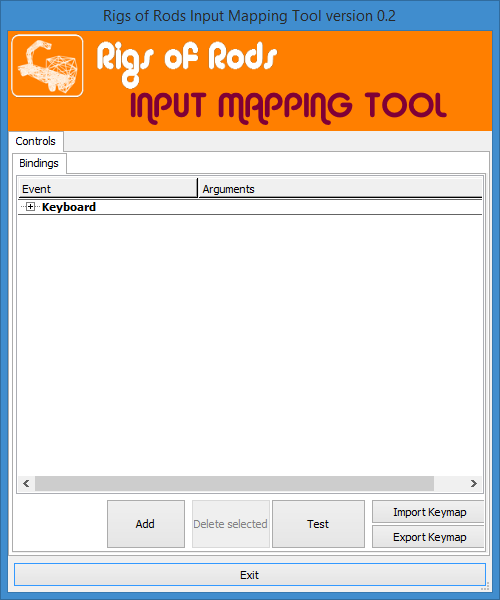
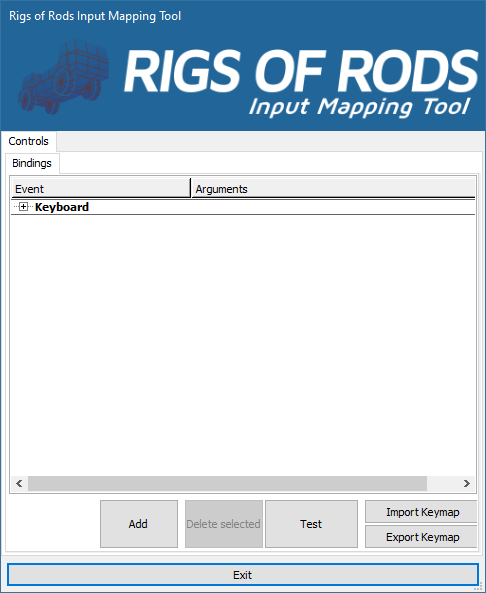
[Controls] Big update
- Updated input mapping tool tutorial for new version
- Added controllers section, moved PS controller tutorial there.

diff --git a/source/gameplay/controls-config.md b/source/gameplay/controls-config.md
@@ -757,8 +757,58 @@ TRUCK_TOGGLE_CONTACT
 TRUCK_TOGGLE_FORWARDCOMMANDS
 TRUCK_TOGGLE_IMPORTCOMMANDS 
 TRUCK_TOGGLE_VIDEOCAMERA    
-TRUCK_TRACTION_CONTROL      
+TRUCK_TRACTION_CONTROL
 ```
+
+## Controllers 
+
+### Xbox 
+
+Rigs of Rods supports Xbox 360 / One / Series controllers out of the box, just plug in your controller and play! 
+
+You can find a list of controls [here](https://forum.rigsofrods.org/resources/xbox-controller-input-map.146/).
+
+If your Xbox controller does not work with RoR, 
+please create a thread on the [support forum](https://forum.rigsofrods.org/forums/game-support.8/) 
+or send a message in the #support channel on the official RoR [Discord](https://discord.gg/rigsofrods) server.
+
+### PlayStation controller support using Steam
+
+Currently, Rigs of Rods does not support PlayStation controllers. However, thanks to Steam's excellent input interface,
+it is possible to "disguise" your PlayStation controller as an Xbox controller, allowing it to work with the game. 
+
+This has been tested with a DualShock 4 controller,  these instructions should also work with the DualSense (PS5) controller as well. 
+
+To begin, install [Steam](https://store.steampowered.com/about/) if you don't already have it and sign in. 
+
+You will first have to enable PlayStation controller support. Click `Steam` -> `Settings`
+![steam-settings](/images/steam-settings.png)
+
+On the Controller tab, select `General controller settings`
+
+![steam-controller-settings](/images/steam-controller-settings.png)
+
+Enable `PlayStation Configuration Support` then click `Back` to return to the settings menu
+
+![steam-ps-support.png](/images/steam-ps-support.png)
+
+Next you'll have to add RoR as a non-Steam game. To do this click `Games` -> `Add a Non-Steam Game to My Library...`
+
+![steam-non-steam-game](/images/steam-non-steam-game.png)
+
+Click ![steam-browse](/images/steam-browse.png), locate where RoR is installed (usually `C:\Program Files\Rigs of Rods`) then double-click `RoR.exe`
+
+![steam-add-non-steam-game](/images/steam-add-non-steam-game.png)
+
+Finally, click `Add selected programs`. RoR will now be in your game library. 
+
+If you've done everything correctly, you should now be able to launch the game from Steam and your controller should be working! 
+
+Controls are listed [here](https://forum.rigsofrods.org/resources/xbox-controller-input-map.146/). 
+
+If you wish to edit the controls, you can use Steam's UI by clicking "Controller layout" under the green play button (only shown when controller is connected). 
+
+For advanced editing you'll need to edit the `Controller__XBOX_360_For_Windows_.map` file inside the `Rigs of Rods\config` folder. See [Config file 'input.map'](#config-file-inputmap) for more info. 
 
 ## Mouse
 
@@ -839,7 +889,8 @@ Then select the correct input type:
 
 Click `Add` once ready, the tool will then ask you to move the axis/press a button. 
 
-The popup will automatically close once the requested action is completed.
+The popup will automatically close once the requested action is completed. 
+If not, press Enter.
 
 ![7](/images/InputMappingTool-3.png)
 
@@ -851,9 +902,26 @@ Once you're done, it's time to export the keymap.
 
 ### Exporting the keymap
 
-First, you'll need to get the correct file name of your file.
+!!! note
+	The latest version of the Input Mapping Tool should automatically set the correct file name for your input device. If it doesn't, please see the troubleshooting section below.
 
-To do this, double-click `getdeviceinfo.exe`. This will generate a `inputinfo.txt` file. Open the text file.
+Click `Export Keymap` then select your device from the list.
+
+![9](/images/InputMappingTool-5.png)
+
+Browse to `Documents\My Games\Rigs of Rods\config`, set the name you copied earlier in the `File name` box, then click `Open` to save the file.
+
+![10](/images/InputMappingTool-6.png)
+
+And finally, run Rigs of Rods and test your device! If you wish to make further edits in the future, you can import your input map by clicking `Import Keymap`.
+
+If you want to share your created input map, upload it to the Input Maps section of the [Repository](https://forum.rigsofrods.org/resources/categories/input-maps.11/). Thanks!
+
+### Troubleshooting
+
+If your input mapping isn't working in-game, you'll first want to check if the name of your input map file is correct.
+
+To do this, you'll find a file named `getdeviceinfo.exe` in the same folder as the tool. Double-click it, a command prompt window will appear for a split second, this is normal.  You will now see a `inputinfo.txt` file in the directory. Open the text file.
 
 Example output:
 
@@ -869,70 +937,31 @@ System info:
 Devices:
 	- OISKeyboard, Vendor: Win32InputManager
 	- OISMouse, Vendor: Win32InputManager
-	- OISJoyStick, Vendor: Logitech Extreme 3D
+	- OISJoyStick, Vendor: Controller (Xbox One For Windows)
 
 
 Joystick 0:
-	Vendor: Logitech Extreme 3D
-	VendorMapFilename: Logitech_Extreme_3D.map
+	Vendor: Controller (Xbox One For Windows)
+	VendorMapFilename: Controller__Xbox_One_For_Windows_.map
 	ID: 0
 	Type: [3] OISJoyStick
-	Axes: 3
-	Sliders: 1
+	Axes: 5
+	Sliders: 0
 	POV/HATs: 1
-	Buttons: 12
+	Buttons: 16
 	Vector3: 0
 	Vector3Sensitivity: 2.28
 ```
 
-`VendorMapFilename` will be the name of your exported file. In this example, the name will be `Logitech_Extreme_3D.map`.
+`VendorMapFilename` will be the name of your exported file. In this example, the name will be `Controller__Xbox_One_For_Windows_.map`.
 
-Click `Export Keymap` then select your device from the list.
+This is what you'll want to name your file. You can choose to just save your input map through the tool again or rename the file from File Explorer.
 
-![9](/images/InputMappingTool-5.png)
+If you rename the file, it is highly recommended you enable file extensions (View -> File name extensions):
 
-Browse to `Documents\My Games\Rigs of Rods\config`, set the name you copied earlier in the `File name` box, then click `Open` to save the file.
+![explorer-file-ext](/images/explorer-file-ext.png)
 
-![10](/images/InputMappingTool-6.png)
+This is to help avoid you naming the file  `.map.map` by mistake. 
 
-And finally, run Rigs of Rods and test your device! You can make further edits to your input map by clicking `Import Keymap`.
-
-If you want to share your created input map, upload it to the Miscellaneous section of the [Repository](https://forum.rigsofrods.org/resources/). Thanks!
-
-## PlayStation controller support using Steam
-
-Currently, Rigs of Rods does not support PlayStation controllers. However, thanks to Steam's excellent input interface,
-it is possible to "disguise" your PlayStation controller as an Xbox controller, allowing it to work with the game. 
-
-This has been tested with a DualShock 4 controller,  these instructions should also work with the DualSense (PS5) controller as well. 
-
-To begin, install [Steam](https://store.steampowered.com/about/) if you don't already have it and sign in. 
-
-You will first have to enable PlayStation controller support. Click `Steam` -> `Settings`
-![steam-settings](/images/steam-settings.png)
-
-On the Controller tab, select `General controller settings`
-
-![steam-controller-settings](/images/steam-controller-settings.png)
-
-Enable `PlayStation Configuration Support` then click `Back` to return to the settings menu
-
-![steam-ps-support.png](/images/steam-ps-support.png)
-
-Next you'll have to add RoR as a non-Steam game. To do this click `Games` -> `Add a Non-Steam Game to My Library...`
-
-![steam-non-steam-game](/images/steam-non-steam-game.png)
-
-Click ![steam-browse](/images/steam-browse.png), locate where RoR is installed (usually `C:\Program Files\Rigs of Rods`) then double-click `RoR.exe`
-
-![steam-add-non-steam-game](/images/steam-add-non-steam-game.png)
-
-Finally, click `Add selected programs`. RoR will now be in your game library. 
-
-If you've done everything correctly, you should now be able to launch the game from Steam and your controller should be working! 
-
-Controls are listed [here](https://forum.rigsofrods.org/resources/xbox-controller-input-map.146/). 
-
-If you wish to edit the controls, you can use Steam's UI by clicking "Controller layout" under the green play button (only shown when controller is connected). 
-
-For advanced editing you'll need to edit the `Controller__XBOX_360_For_Windows_.map` file inside the `Rigs of Rods\config` folder. See [Config file 'input.map'](#config-file-inputmap) for more info. 
+If you've made sure your input map is named correctly and the device still doesn't function in-game, 
+please create a thread on the [support forum](https://forum.rigsofrods.org/forums/game-support.8/) or send a message in the #support channel on the official RoR [Discord](https://discord.gg/rigsofrods) server.
